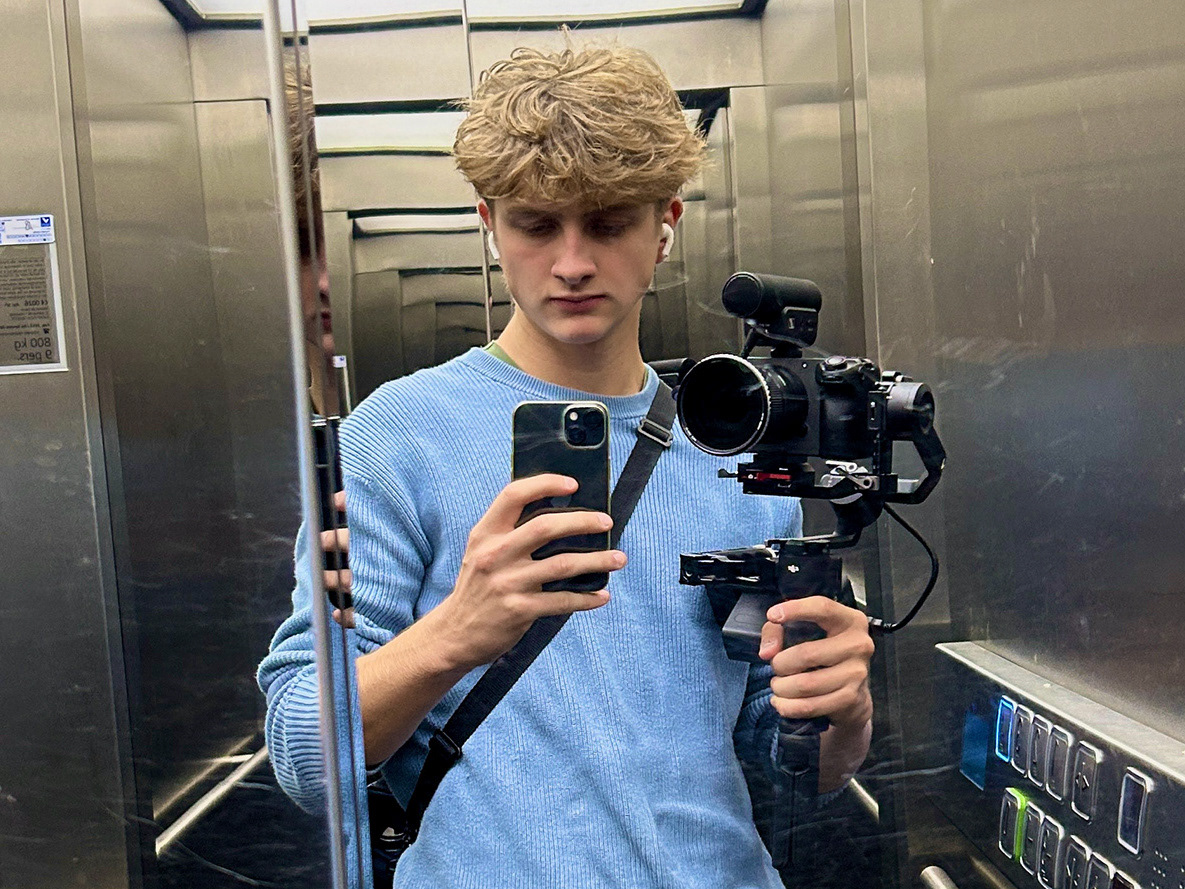
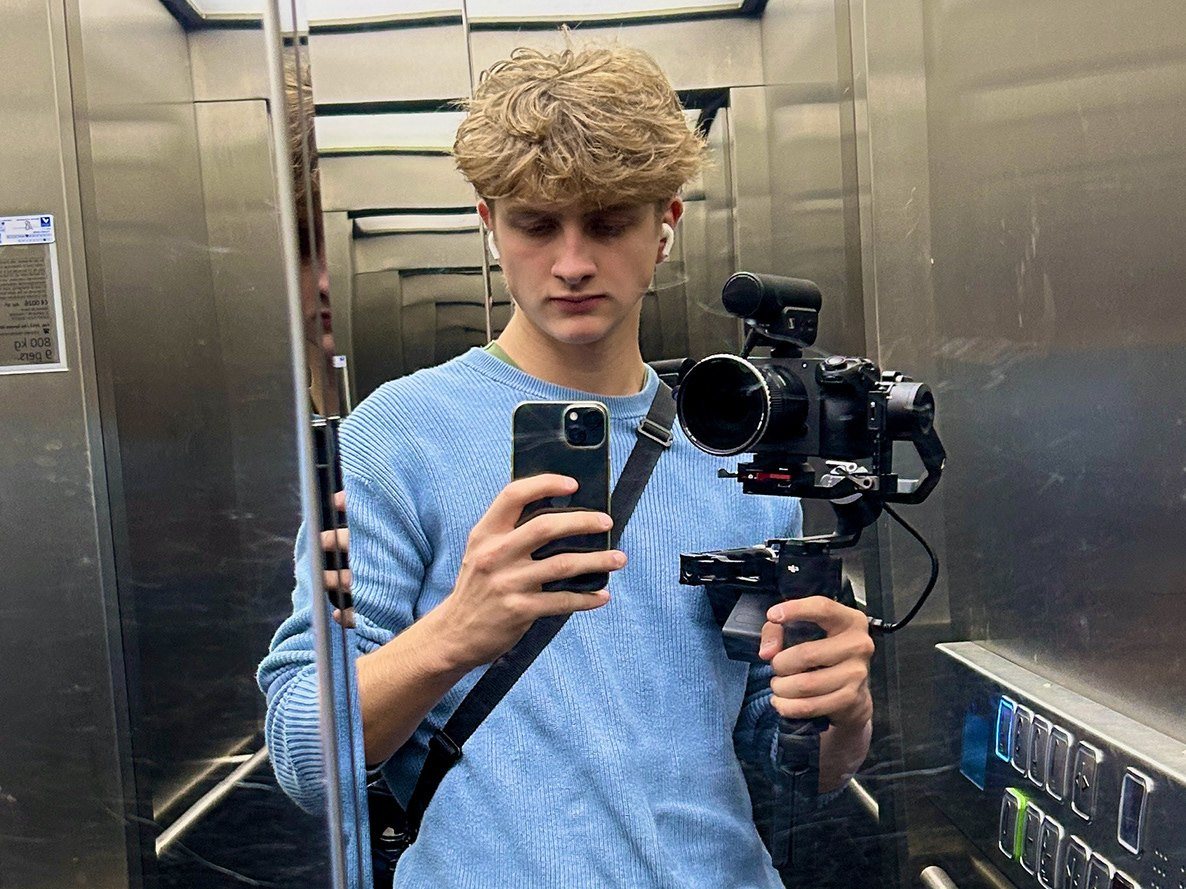
Eigen thumbnails per project
Claude-Session: https://claude.ai/code/session_01FHcAcP176DWzHu7Wk8rrDa

diff --git a/index.html b/index.html
@@ -503,12 +503,17 @@ dialog::backdrop{background:rgba(0,0,0,.88)}
   const thumb = (id,n) => `https://i.ytimg.com/vi/${id}/${n?("hq"+n):"hqdefault"}.jpg`;
   // cover image, and the frames shown while scrubbing over a card:
   // YouTube keeps three frames per video; a multi-video project shows each video's poster
-  const cover = p => p.vids ? p.vids[0].poster : (p.yt ? thumb(p.yt[0]) : null);
+  // hand-picked stills from Tristan; YouTube's own thumbnail is the fallback
+  const COVER = {"Dokfeesten 2026":"dokfeesten","Mens Sana 2025":"mens-sana","Fairtrade Banana Run":"fairtrade","Wejo × Bocco":"wejo-bocco","ICDS 7":"icds",
+    "Elien & Jens":"elien-jens","Joachim & Felien":"joachim-felien","Spring Drop Announcement":"spring-drop","Ten Anker":"ten-anker",
+    "Film van Maxence Rubbens":"maxence","Film van Nelson Van Herzele":"nelson","Atelier Fictie 1":"fictie1","De Koffer":"de-koffer"};
+  const EXTRA = {"ICDS 7":["icds-2"],"Elien & Jens":["elien-jens-2"]};
+  const cover = p => COVER[p.title] ? `assets/covers/${COVER[p.title]}.jpg` : (p.vids ? p.vids[0].poster : (p.yt ? thumb(p.yt[0]) : null));
   const ytFrame=(id,title,auto)=>`<iframe src="https://www.youtube-nocookie.com/embed/${id}?rel=0${auto?"&autoplay=1":""}" title="${esc(title)}" allow="autoplay; encrypted-media; picture-in-picture; fullscreen" allowfullscreen referrerpolicy="strict-origin-when-cross-origin"></iframe>`;
   // up to eight frames per YouTube video live in assets/frames (black intro/credit frames left out); a multi-video project steps through two frames of each video
   const FRAMES = {"4to_bSMjv98":[1,2,3,4,5,6,7,8],"5RBhmR-tjOM":[2,3,4,5,6,7,8],"5VXlWdZdW1A":[1,2,3,4,5,6],"8EF8p7EGLOc":[1,2,3,4,5,6,7,8],"FM4PBAvugTw":[1,2,3,4,5,6,7,8],"JYeob-Q2qRs":[1,2,3,4,5,6,7,8],"JdYwGTit_-c":[1,2,3,4,5,6,7,8],"TKK0UC2sbbE":[1,2,3,4,5,6,7,8],"WrqVQPR2veo":[1,2,3,4,5,6,7,8],"cd96lB5AD2k":[1,2,3,5,6,7],"hqw-YgsIId4":[1,2,3,4,6,7],"hvcm7aHr_Dc":[1,3,5,7],"laxZ4am0Qrw":[1,2,3,4,5,6,8],"nZM5mqWff8g":[1,4,5,6,7],"rhwQRYKQXOY":[1,2,3,4,5,6,7,8]};
   const scrubFrames = p => p.vids ? p.vids.flatMap(v=>{ const id=v.src.split('/').pop().replace('.mp4',''); return [1,2].map(n=>`assets/frames/wejo-${id}-${n}.jpg`); })
-    : (p.yt ? (FRAMES[p.yt[0]] ? FRAMES[p.yt[0]].map(n=>`assets/frames/${p.yt[0]}-${n}.jpg`) : [1,2,3].map(n=>thumb(p.yt[0],n))) : []);
+    : (p.yt ? (EXTRA[p.title]||[]).map(k=>`assets/covers/${k}.jpg`).concat(FRAMES[p.yt[0]] ? FRAMES[p.yt[0]].map(n=>`assets/frames/${p.yt[0]}-${n}.jpg`) : [1,2,3].map(n=>thumb(p.yt[0],n))) : []);
 
   // ----- cards -----
   function card(p){
